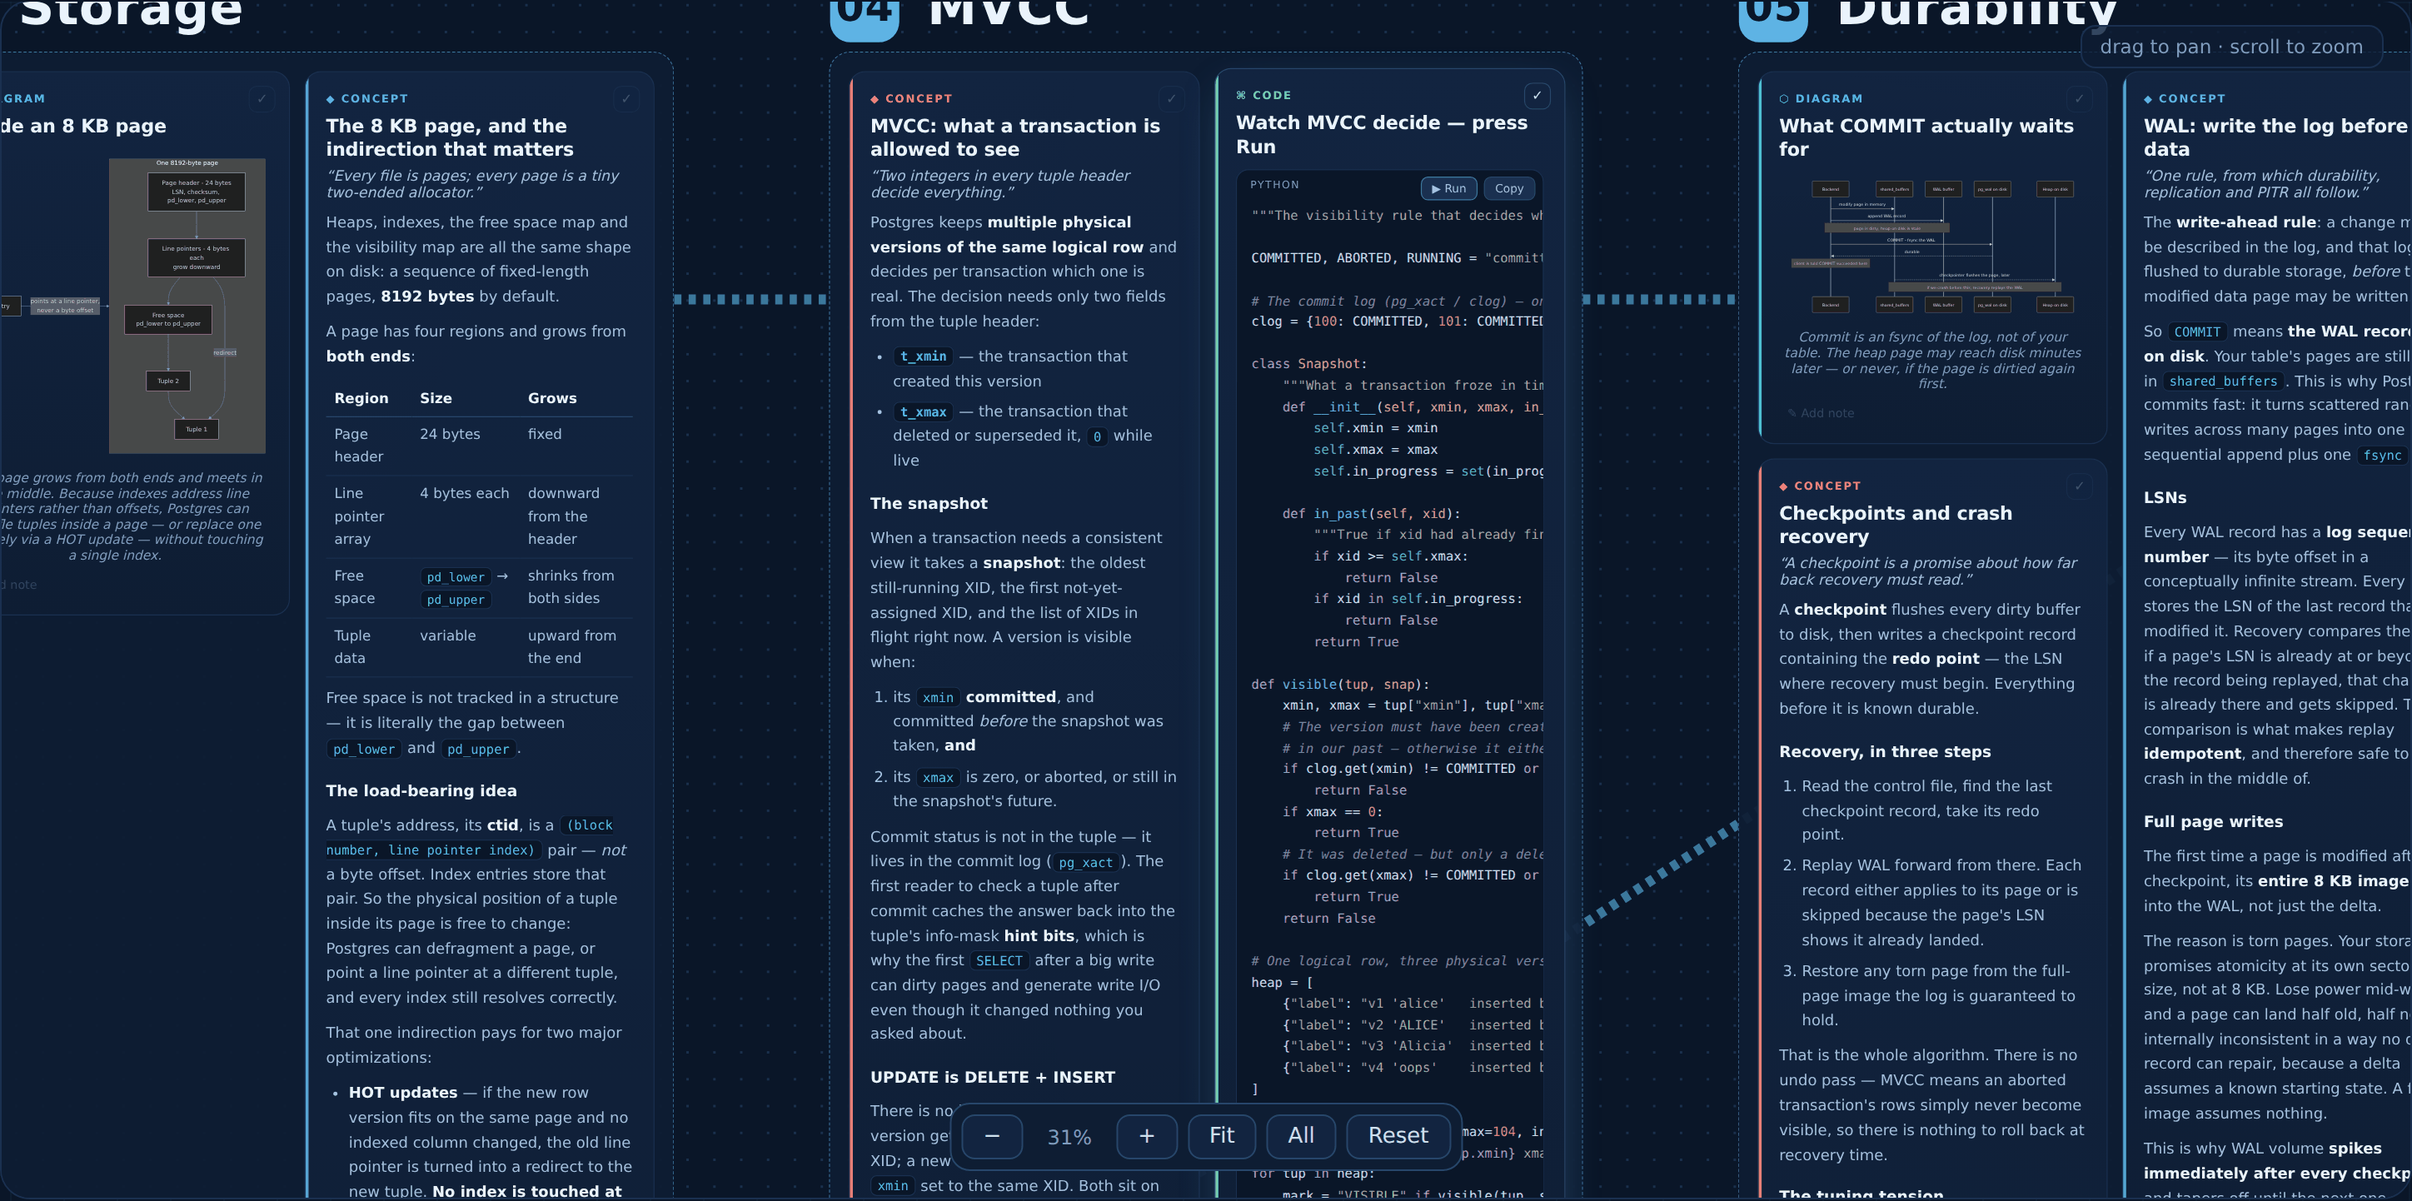
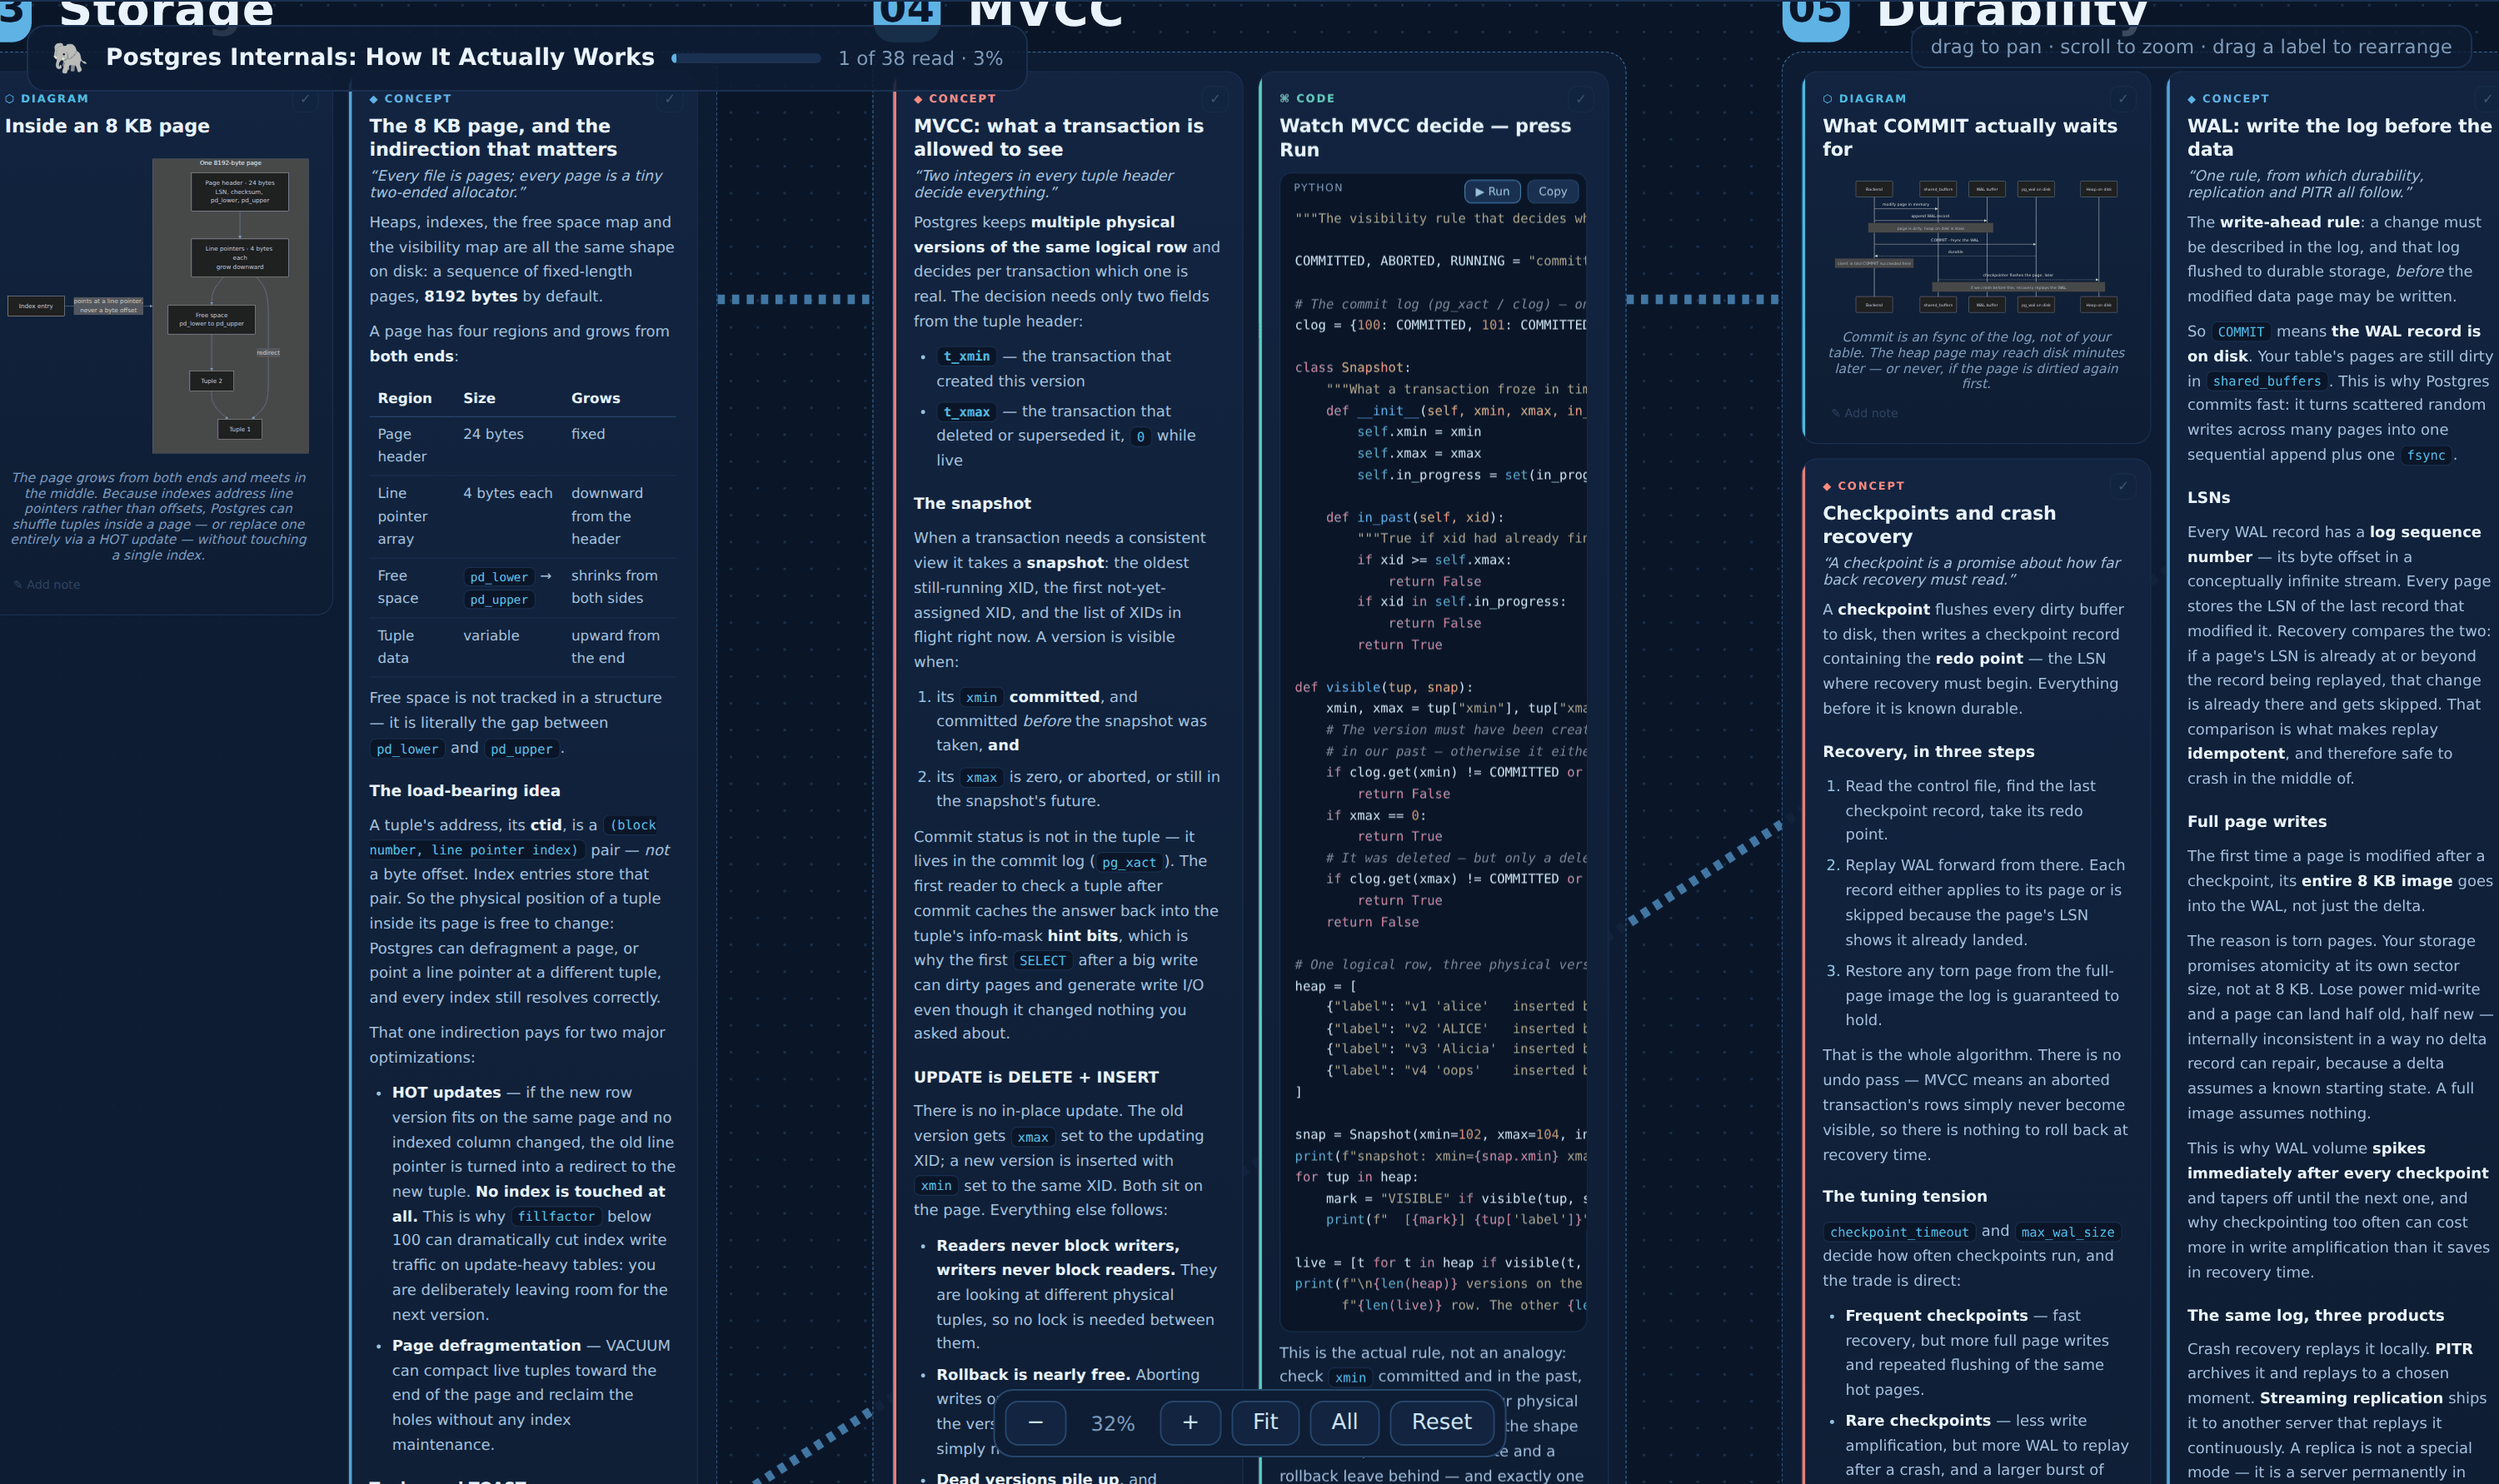
Broader columns, full-bleed canvas, and two sweep-caught UI fixes
Layout, from local-use feedback: the content cap goes from 1500px to
1920px with slimmer gutters, so the four masonry columns actually use a
wide monitor instead of floating in padding.

The canvas now owns the whole page below the header: no hero above it, no
gutters, no competing page scroll — which was what made the wall feel
cramped and awkward to move around in. A compact board chip (emoji, title,
live progress) rides the top-left corner in place of the hero, and the fit
anchor starts the wall just below it.

A four-width screenshot sweep (1920/1366/1024/480 across all six views and
focus mode, plus a horizontal-overflow probe on every combination) caught
two real collisions, both fixed: the TOC rail overlapped the hero once the
layout widened — content now shifts right when a rail is mounted — and on
phones the pan/zoom hint sat on top of the board chip; it is a mouse
affordance, so it is simply dropped on small screens. No overflow and no
JS errors at any width; all suites re-run green.

Claude-Session: https://claude.ai/code/session_01CMLozU8DZ5EUDgGDcPKhJ6

Changed region(s): [[0.0, 0.0, 1.0, 1.0], [0.6526, 0.749, 0.6837, 0.7802], [0.2797, 0.9986, 0.3108, 1.0]]

diff --git a/app/index.html b/app/index.html
@@ -166,14 +166,14 @@
   .spacer { flex: 1; }
 
   /* ── Hero ───────────────────────────────────────────── */
-  .hero { padding: 34px 26px 8px; max-width: 1500px; margin: 0 auto; }
+  .hero { padding: 30px 24px 8px; max-width: 1920px; margin: 0 auto; }
   .hero h1 { font-size: clamp(26px, 4vw, 42px); color: var(--ink-100); letter-spacing: -.02em; line-height: 1.1; font-family: var(--font-display); }
   .hero h1 .emoji { margin-right: 12px; }
   .hero .meta { margin-top: 10px; display: flex; gap: 10px; flex-wrap: wrap; align-items: center; color: var(--ink-400); font-size: 13px; }
   .chip { border: 1px solid var(--ink-700); background: var(--ink-850); border-radius: 99px; padding: 3px 11px; font-size: 12px; }
   .chip.accent { color: var(--accent-soft); border-color: color-mix(in srgb, var(--accent) 40%, transparent); }
 
-  main { max-width: 1500px; margin: 0 auto; padding: 22px 26px 80px; }
+  main { max-width: 1920px; margin: 0 auto; padding: 22px 24px 80px; }
 
   /* ── Layouts ────────────────────────────────────────── */
   .masonry { column-gap: 20px; column-count: 1; }
@@ -455,6 +455,24 @@
     overflow: hidden; border: 1px solid var(--ink-800); border-radius: 18px;
     background: var(--ink-950); cursor: grab; touch-action: none;
   }
+  /* In canvas view the wall owns the whole page below the header — no hero,
+     no gutters, no competing page scroll. */
+  main.canvas-main { max-width: none; padding: 0; }
+  .canvas-main .canvas-viewport {
+    height: calc(100vh - 59px); min-height: 480px;
+    border: 0; border-top: 1px solid var(--ink-800); border-radius: 0;
+  }
+  .canvas-chip {
+    position: absolute; top: 14px; left: 16px; z-index: 3;
+    display: flex; align-items: center; gap: 10px; max-width: 46vw;
+    background: color-mix(in srgb, var(--ink-900) 88%, transparent);
+    border: 1px solid var(--ink-800); border-radius: 11px; padding: 8px 14px;
+  }
+  .canvas-chip .cemoji { font-size: 18px; }
+  .canvas-chip .ctitle { font-family: var(--font-display); font-weight: 700; font-size: 14px;
+                         color: var(--ink-100); white-space: nowrap; overflow: hidden; text-overflow: ellipsis; }
+  .canvas-chip .progress-track { flex: 0 0 90px; }
+  .canvas-chip .progress-label { white-space: nowrap; font-size: 11.5px; }
   .canvas-viewport.dragging { cursor: grabbing; }
   .canvas-surface {
     position: absolute; transform-origin: 0 0;
@@ -500,6 +518,11 @@
   .canvas-hint { position: absolute; top: 14px; right: 16px; z-index: 3; font-size: 11.5px; color: var(--ink-400);
                  background: color-mix(in srgb, var(--ink-900) 80%, transparent); border: 1px solid var(--ink-800);
                  border-radius: 9px; padding: 5px 11px; pointer-events: none; }
+  @media (max-width: 900px) {
+    .canvas-hint { display: none; }
+    .canvas-chip { max-width: 74vw; }
+    .canvas-chip .progress-label { display: none; }
+  }
 
   /* ── Read progress ──────────────────────────────────── */
   .read-toggle {
@@ -542,7 +565,11 @@
     position: fixed; left: 18px; top: 150px; bottom: 24px; width: 232px; z-index: 5;
     overflow-y: auto; padding-right: 6px; display: none;
   }
-  @media (min-width: 1580px) { .toc-rail { display: block; } }
+  @media (min-width: 1580px) {
+    .toc-rail { display: block; }
+    /* The rail is fixed at the left edge — shift the page content past it. */
+    #app.has-toc .hero, #app.has-toc main { padding-left: 278px; }
+  }
   .toc-rail h4 { font-size: 10.5px; text-transform: uppercase; letter-spacing: .14em;
                  color: var(--ink-500); margin: 0 0 10px 10px; }
   .toc-rail a {
@@ -2601,8 +2628,9 @@ function buildCanvas(blocks) {
     const vw = viewport.clientWidth, vh = viewport.clientHeight;
     v.scale = Math.min(0.65, (vw - 60) / v.w);
     v.x = (vw - v.w * v.scale) / 2;
-    // Shorter than the viewport → center it; taller → start at the top.
-    v.y = Math.max(30, (vh - v.h * v.scale) / 2);
+    // Shorter than the viewport → center it; taller → start just below the
+    // board chip so the first row's labels aren't hidden behind it.
+    v.y = Math.max(76, (vh - v.h * v.scale) / 2);
     apply();
   };
   const overview = () => {
@@ -2706,7 +2734,13 @@ function buildCanvas(blocks) {
     label.addEventListener("pointerup", drop);
     label.addEventListener("pointercancel", drop);
   }
-  viewport.append(bar, el("div", { class: "canvas-hint" }, ["drag to pan · scroll to zoom"]));
+  const chip = el("div", { class: "canvas-chip" }, [
+    el("span", { class: "cemoji" }, [state.board?.emoji ?? "🧠"]),
+    el("span", { class: "ctitle" }, [state.board?.title ?? ""]),
+    el("div", { class: "progress-track" }, [el("div", { class: "progress-fill", "data-readfill": "" })]),
+    el("span", { class: "progress-label", "data-readlabel": "" }),
+  ]);
+  viewport.append(bar, chip, el("div", { class: "canvas-hint" }, ["drag to pan · scroll to zoom · drag a label to rearrange"]));
 
   // ── layout: place frames in rows once their heights are measurable ──
   // Wide rows keep the wall close to screen aspect, so "Fit" is readable.
@@ -2963,8 +2997,9 @@ function render() {
 
   if (!state.board) { renderEmpty(); return; }
   const board = state.board;
+  const isCanvas = state.view === "canvas";
 
-  // Hero
+  // Hero — skipped on the canvas, which owns the whole page below the header.
   const hero = el("div", { class: "hero" });
   const h1 = el("h1");
   h1.append(el("span", { class: "emoji" }, [board.emoji ?? "🧠"]), board.title ?? board.topic);
@@ -2984,9 +3019,9 @@ function render() {
     el("span", { class: "progress-label", "data-readlabel": "" }),
   );
   hero.append(prow);
-  app.append(hero);
+  if (!isCanvas) app.append(hero);
 
-  const main = el("main");
+  const main = el("main", { class: isCanvas ? "canvas-main" : "" });
   const blocks = visibleBlocks();
 
   if (state.view === "mindmap") {
@@ -3026,7 +3061,7 @@ function render() {
   }
 
   // Sources
-  if ((board.sources ?? []).length > 0 && !state.query) {
+  if ((board.sources ?? []).length > 0 && !state.query && !isCanvas) {
     const src = el("section", { class: "sources" });
     src.append(el("h3", {}, ["Research sources"]));
     const ul = el("ul");
@@ -3046,8 +3081,10 @@ function render() {
   }
 
   app.append(main);
+  app.classList.remove("has-toc");
   if (["notes", "feed"].includes(state.view) && blocks.length > 4) {
     app.append(buildToc(main, blocks));
+    app.classList.add("has-toc");
   }
   typesetMath(app);
   highlightCode(app);
